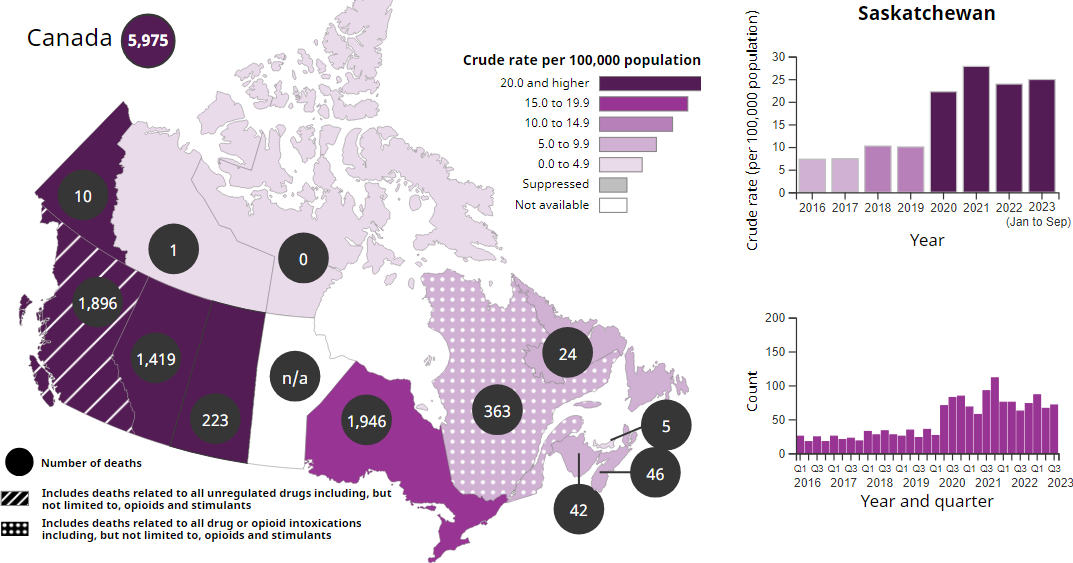
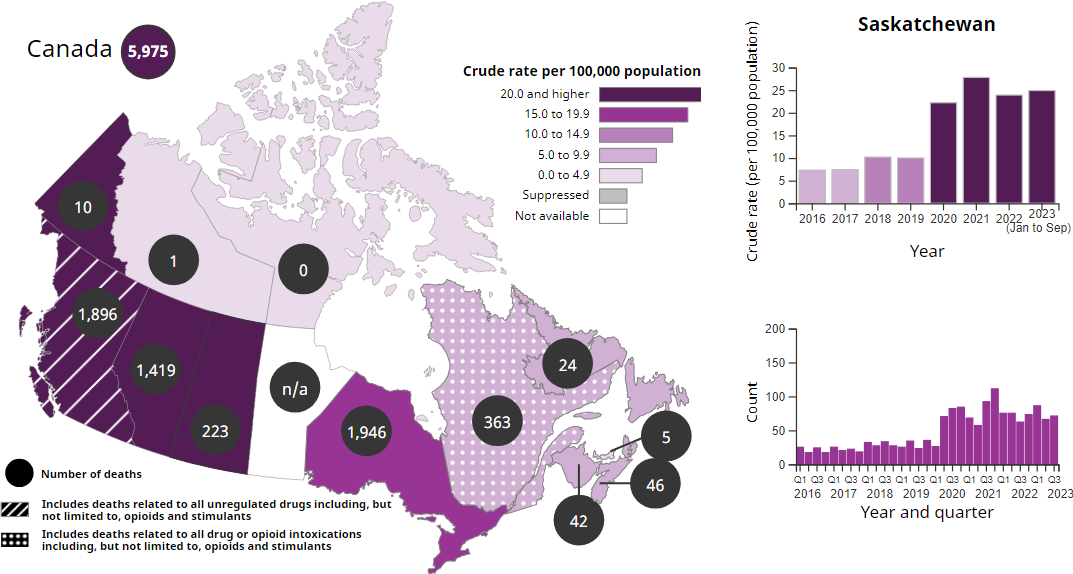
Fixed SK in carousel

diff --git a/docs/index.html b/docs/index.html
@@ -174,29 +174,9 @@ ul.task-list li input[type="checkbox"] {
 <section id="the-opioid-epidemic" class="level1">
 <h1>The Opioid Epidemic</h1>
 <p>Canada has seen an increasing number of opioid-related harms and deaths, with an estimated 39,435 opioid-related hospitalizations and 40,642 apparent opioid toxicity deaths between January 2016 and June 2023<a href="#fn1" class="footnote-ref" id="fnref1" role="doc-noteref"><sup>1</sup></a>. This is an unprecedented crisis, which the Government of Canada is tackling across a range of fronts<a href="#fn2" class="footnote-ref" id="fnref2" role="doc-noteref"><sup>2</sup></a>. Policymakers dealing with the opioid crisis, at all levels of government, are faced with difficult questions about the trajectory of the epidemic, as well as questions about which policy interventions would be effective in reducing the number of deaths and overdoses (e.g.&nbsp;decriminalization, provision of safe injection sites, among other policies).</p>
-<div>
-
-</div>
-<div class="quarto-layout-panel" data-layout="[50,50]">
-<div class="quarto-layout-row quarto-layout-valign-center">
-<div class="quarto-layout-cell" style="flex-basis: 50.0%;justify-content: flex-start;">
-<div class="quarto-figure quarto-figure-center">
-<figure class="figure">
-<p><a href="https://health-infobase.canada.ca/substance-related-harms/opioids-stimulants/maps.html"><img src="./static/health_infobase_dashboard.png" class="img-fluid figure-img" alt="Opioid- and Stimulant-related Harms in Canada (PHAC)"></a></p>
-<figcaption>Opioid- and Stimulant-related Harms in Canada (PHAC)<a href="#fn3" class="footnote-ref" id="fnref3" role="doc-noteref"><sup>3</sup></a></figcaption>
-</figure>
-</div>
-</div>
-<div class="quarto-layout-cell" style="flex-basis: 50.0%;justify-content: flex-start;">
-<div class="quarto-figure quarto-figure-center">
-<figure class="figure">
-<p><a href="http://www.bccdc.ca/health-professionals/data-reports/substance-use-harm-reduction-dashboard"><img src="./static/bccdc_dashboard.png" class="img-fluid figure-img" alt="Unregulated Drug Poisoning Emergency Dashboard (BCCDC)"></a></p>
-<figcaption>Unregulated Drug Poisoning Emergency Dashboard (BCCDC)<a href="#fn4" class="footnote-ref" id="fnref4" role="doc-noteref"><sup>4</sup></a></figcaption>
-</figure>
-</div>
-</div>
-</div>
-</div>
+<div class="columns">
+<div class="column" style="width:50%;">
+<!-- [![Opioid- and Stimulant-related Harms in Canada (PHAC)[^1]](./static/health_infobase_dashboard.png)](https://health-infobase.canada.ca/substance-related-harms/opioids-stimulants/maps.html) -->
 <script>
     var images = [
         "./static/rotating_banner/0.png",
@@ -222,13 +202,29 @@ ul.task-list li input[type="checkbox"] {
 
     },2000); /*1000 = 1 sec*/
 </script>
+
 <script src="https://ajax.googleapis.com/ajax/libs/jquery/2.1.1/jquery.min.js"></script>
-<img id="rotator" src="">
+
+<figure class="figure">
+    <a href="https://health-infobase.canada.ca/substance-related-harms/opioids-stimulants/maps.html">
+        <img id="rotator" src="" class="figure-img">
+    </a>
+    <figcaption>Opioid- and Stimulant-related Harms in Canada (PHAC)</figcaption>
+</figure>
+</div><div class="column" style="width:50%;">
+<div class="quarto-figure quarto-figure-center">
+<figure class="figure">
+<p><a href="http://www.bccdc.ca/health-professionals/data-reports/substance-use-harm-reduction-dashboard"><img src="./static/bccdc_dashboard.png" class="img-fluid figure-img" alt="Unregulated Drug Poisoning Emergency Dashboard (BCCDC)"></a></p>
+<figcaption>Unregulated Drug Poisoning Emergency Dashboard (BCCDC)<a href="#fn3" class="footnote-ref" id="fnref3" role="doc-noteref"><sup>3</sup></a></figcaption>
+</figure>
+</div>
+</div>
+</div>
 </section>
 <section id="statistics-canada-efforts" class="level1">
 <h1>Statistics Canada Efforts</h1>
 <p>While Statistics Canada, specifically the Health Analysis Division (HAD), has been involved in modelling disease outcomes for many years, previous models have concentrated on a national or provincial picture. Both the COVID-19 pandemic and the opioid crisis have demonstrated that policy making and prevention efforts in smaller geographic areas, for instance Public Health Units (PHUs) or Health Regions (HRs) are essential to target those at risk and prevent adverse outcomes. This project will allow the development of general techniques and models that could be used as tools by local level policymakers to project near-term outcomes and to compare and contrast alternative policy options.</p>
-<p>This project will also allow the development of analytical capacity and knowledge in disease modelling at Statistics Canada and externally. The COVID-19 pandemic brought about unprecedented demand for disease modelling knowledge and services within the Federal Government and shed light on a significant gap in modelling capacity and knowledge within the Federal Public Service. Statistics Canada and HAD, in particular, has the opportunity to begin to fill this gap by expanding on the modelling services we provide, including but not limited to, expanding on the types of models we create and support, growing modelling teams that can provide technical and consultation services, and publishing innovative and user-centric visualizations or interfaces for model results. In line with the Statistics Canada Open Science Action plan<a href="#fn5" class="footnote-ref" id="fnref5" role="doc-noteref"><sup>5</sup></a>, this model code and documentation will be shared externally for use by policymakers and public health practitioners, giving them access to data and innovative tools for decision making.</p>
+<p>This project will also allow the development of analytical capacity and knowledge in disease modelling at Statistics Canada and externally. The COVID-19 pandemic brought about unprecedented demand for disease modelling knowledge and services within the Federal Government and shed light on a significant gap in modelling capacity and knowledge within the Federal Public Service. Statistics Canada and HAD, in particular, has the opportunity to begin to fill this gap by expanding on the modelling services we provide, including but not limited to, expanding on the types of models we create and support, growing modelling teams that can provide technical and consultation services, and publishing innovative and user-centric visualizations or interfaces for model results. In line with the Statistics Canada Open Science Action plan<a href="#fn4" class="footnote-ref" id="fnref4" role="doc-noteref"><sup>4</sup></a>, this model code and documentation will be shared externally for use by policymakers and public health practitioners, giving them access to data and innovative tools for decision making.</p>
 </section>
 <section id="approach" class="level1">
 <h1>Approach</h1>
@@ -407,9 +403,8 @@ Point-of-contact interventions
 <ol>
 <li id="fn1"><p>Public Health Agency of Canada: <a href="https://health-infobase.canada.ca/substance-related-harms/opioids-stimulants/">Opioid- and Stimulant-related Harms in Canada</a><a href="#fnref1" class="footnote-back" role="doc-backlink">↩</a></p></li>
 <li id="fn2"><p>Government of Canada: <a href="https://www.canada.ca/en/health-canada/services/opioids/federal-actions/overview.html">Federal actions on the overdose crisis</a><a href="#fnref2" class="footnote-back" role="doc-backlink">↩</a></p></li>
-<li id="fn3"><p>Public Health Agency of Canada: <a href="https://health-infobase.canada.ca/substance-related-harms/opioids-stimulants/">Opioid- and Stimulant-related Harms in Canada</a><a href="#fnref3" class="footnote-back" role="doc-backlink">↩</a></p></li>
-<li id="fn4"><p>BC Centre for Disease Control: <a href="http://www.bccdc.ca/health-professionals/data-reports/substance-use-harm-reduction-dashboard">Unregulated Drug Poisoning Emergency Dashboard</a><a href="#fnref4" class="footnote-back" role="doc-backlink">↩</a></p></li>
-<li id="fn5"><p>Statistics Canada: <a href="https://www.statcan.gc.ca/en/about/osap">Open Science Action Plan</a><a href="#fnref5" class="footnote-back" role="doc-backlink">↩</a></p></li>
+<li id="fn3"><p>BC Centre for Disease Control: <a href="http://www.bccdc.ca/health-professionals/data-reports/substance-use-harm-reduction-dashboard">Unregulated Drug Poisoning Emergency Dashboard</a><a href="#fnref3" class="footnote-back" role="doc-backlink">↩</a></p></li>
+<li id="fn4"><p>Statistics Canada: <a href="https://www.statcan.gc.ca/en/about/osap">Open Science Action Plan</a><a href="#fnref4" class="footnote-back" role="doc-backlink">↩</a></p></li>
 </ol>
 </section></div></main> <!-- /main -->
 <script id="quarto-html-after-body" type="application/javascript">

diff --git a/docs/styles.css b/docs/styles.css
@@ -1,5 +1,5 @@
 /* css styles */
 #rotator{
-    width: auto;
+    max-width: 100%;
     height: auto;
   }

diff --git a/styles.css b/styles.css
@@ -1,5 +1,5 @@
 /* css styles */
 #rotator{
-    width: auto;
+    max-width: 100%;
     height: auto;
   }
